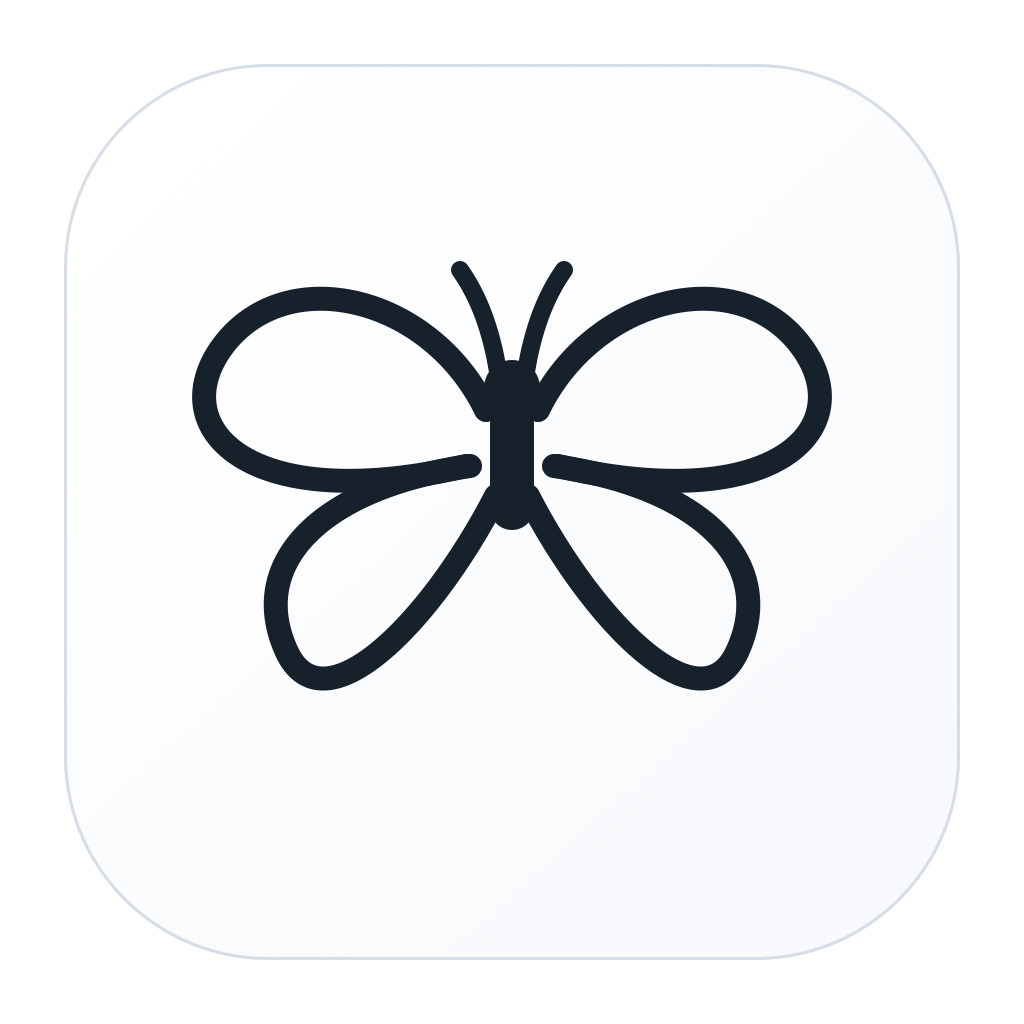
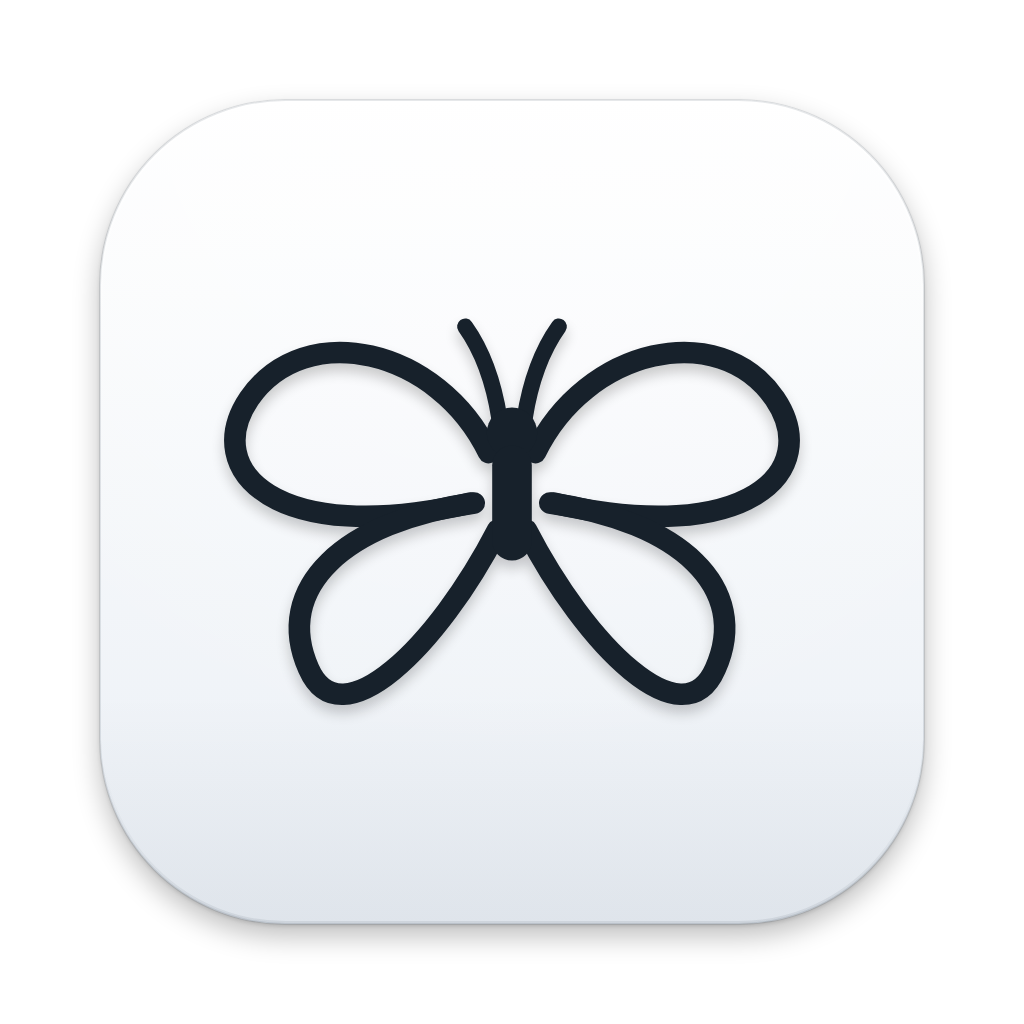
feat: 英语卡片换新封面、应用图标换新稿，并发布 1.0.7
- 封面：`EnglishCover` 由 `English.png`（1920×1080）换成 `English3.jpg`（1920×823），
  与日语封面同一惯例（直接放 jpg 源图、只登记 1x）。卡片用 `scaledToFill` + `clipped`，
  比例差异只会多裁掉上下边缘，不会变形。
- 图标：AppIcon 十个尺寸按新 SVG 重新渲染，新增可复现的渲染脚本
  `tools/render_app_icon.sh`（优先 rsvg-convert，缺省退回 Chrome 无头渲染）。
- 版本 1.0.6/7 → 1.0.7/8；appcast 用干净临时目录生成，只保留 1.0.7 一条。
- ZIP 按约定不入库，本地留在 SparkleReleases/ 供手动上传到 Release。

验证：Release 构建通过、无新增编译警告；包内 Info.plist 为 1.0.7 / 8；
`EnglishCover` 已编进 Assets.car 且尺寸为 1920×823（日语封面未动）；
codesign --verify --deep --strict 通过、含 disable-library-validation 且不含 get-task-allow；
用 Info.plist 的 SUPublicEDKey 独立校验 ZIP 的 EdDSA 签名通过；
appcast 声明长度与实际字节一致（4689605）；单元测试 278 / 278 通过。

diff --git a/SparkleReleases/Egangnal-1.0.7.md b/SparkleReleases/Egangnal-1.0.7.md
@@ -1,0 +1,13 @@
+# Egangnal 1.0.7
+
+本次更新更换了英语空间卡片的封面图，并启用新的应用图标。
+
+## 界面
+
+- **英语卡片换了新封面**：首页英语入口的底图更新为新的画面。
+- **新的应用图标**：图标改为带玻璃高光与圆角的方形，与 macOS 的应用图标风格更一致。
+
+## 说明
+
+- 卡片封面只是入口的视觉，不影响单词本、词库与学习时长的数据。
+- 如果更新后 Dock 或访达里仍是旧图标，那是系统的图标缓存；把应用拖出 Dock 再拖回来，或重启一次即可。
